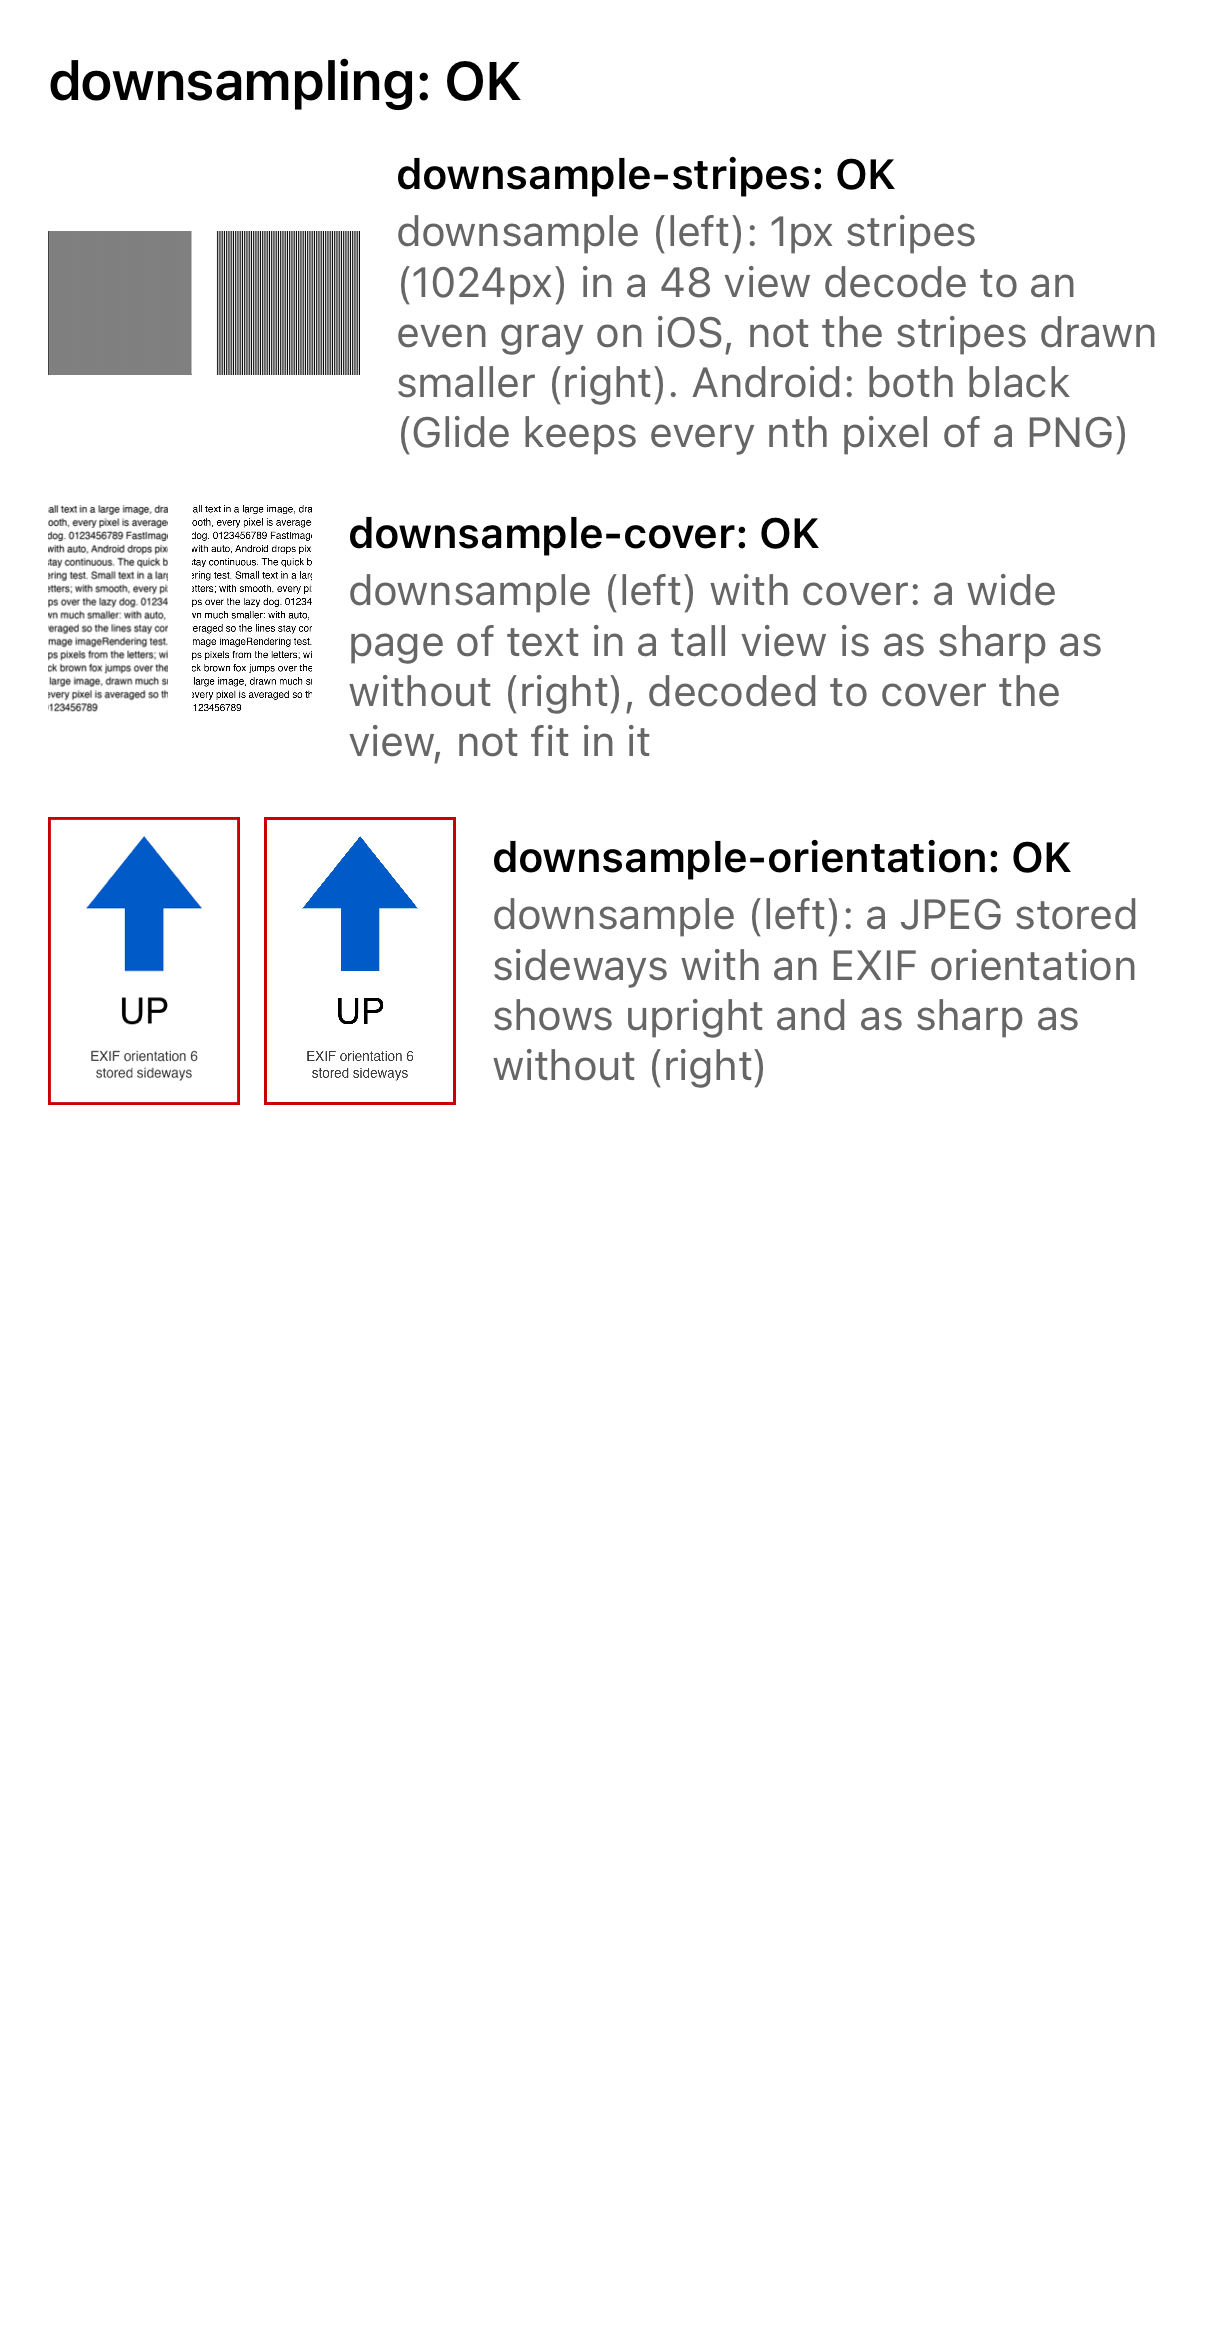
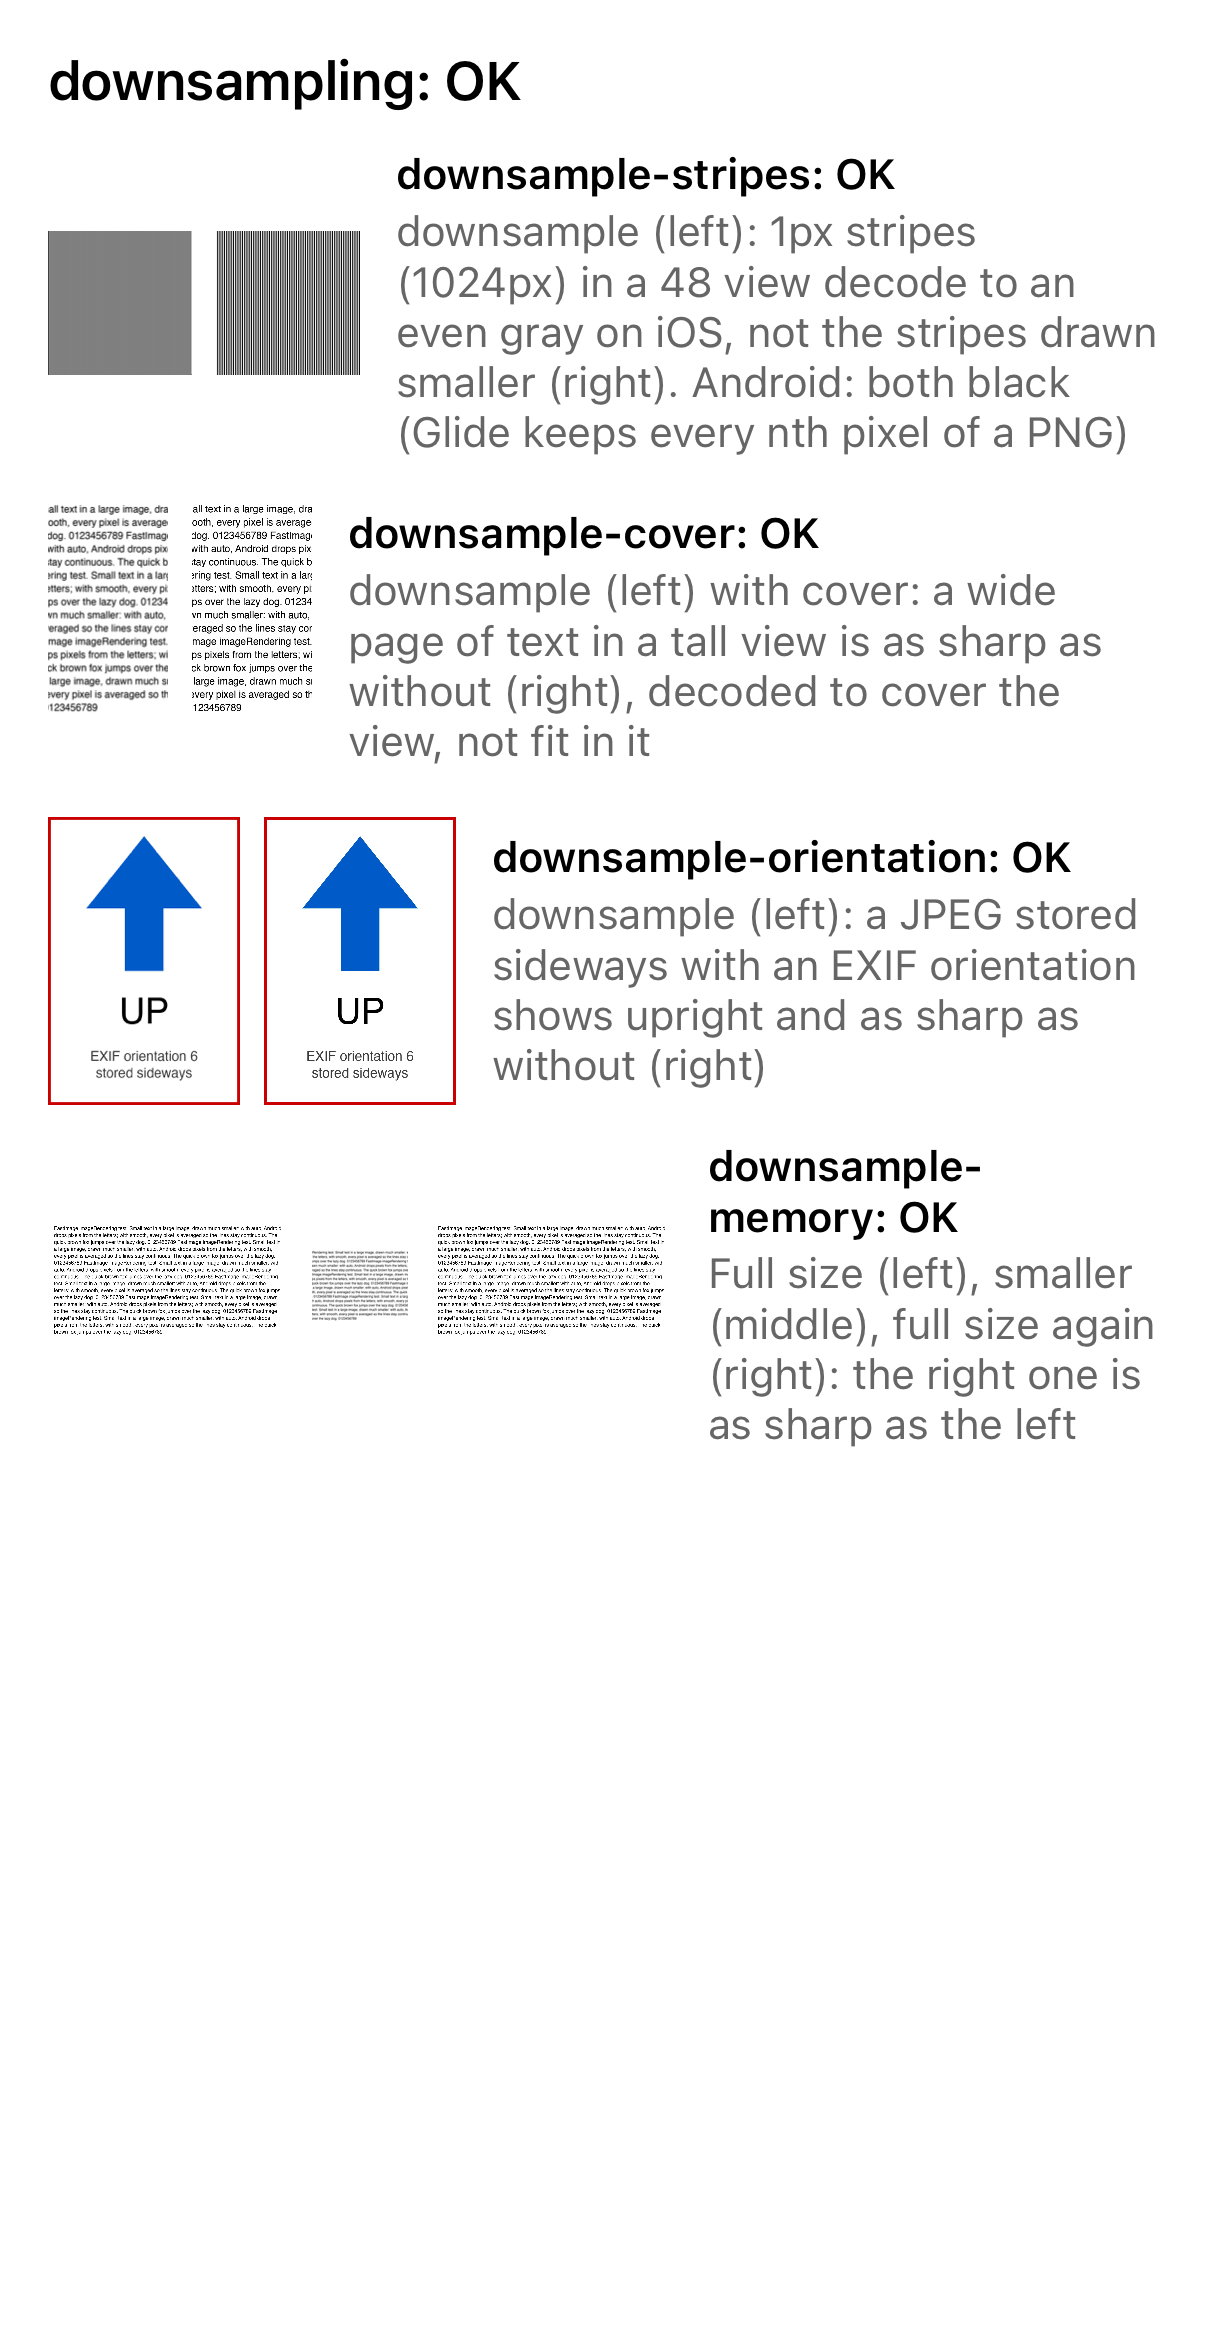
fix(ios): a full-size image isn't blurry after a smaller one of the same url
SDWebImage keeps an image it decodes smaller from the disk cache, for a
view that downsamples, in the memory cache under the full-size image's key
too. A view that then showed the same url at full size (downsample={false},
resizeMode="repeat", or a view without a size) found it there, and showed
it blurry. A full-size load now drops a smaller image from that key first,
so it decodes the file from the disk cache.

Changed region(s): [[0.5829, 0.4936, 0.9511, 0.617], [0.0307, 0.5244, 0.3375, 0.5861], [0.3682, 0.5244, 0.5522, 0.5861]]

diff --git a/ReactNativeFastImageExample/src/RegressionExample.tsx b/ReactNativeFastImageExample/src/RegressionExample.tsx
@@ -5242,7 +5242,53 @@ function DownsampleOrderCase() {
     )
 }
 
+// A view that downsamples an image from the disk cache, after a view showed
+// it at full size, doesn't leave its smaller copy where full-size views look
+// (iOS: it was in the memory cache under the full-size image's key). A page of
+// text at full size (left), the same smaller (middle), then at full size
+// again (right), which should be as sharp as the left one.
+function DownsampleMemoryCase() {
+    // Not shared with other cases, so this case decides what's cached.
+    const uri = imageUrl('text-page.png?case=downsample-memory')
+    const [step, setStep] = useState(0)
+    const next = (to: number) => () => {
+        // After the full-size image has been written to the disk cache.
+        setTimeout(() => setStep((s) => Math.max(s, to)), 300)
+    }
+    return (
+        <View style={styles.row}>
+            <FastImage
+                style={downsampleStyles.page}
+                source={{ uri }}
+                downsample={false}
+                onLoad={next(1)}
+            />
+            {step >= 1 && (
+                <FastImage
+                    style={[downsampleStyles.small, styles.gap]}
+                    source={{ uri }}
+                    onLoad={next(2)}
+                />
+            )}
+            {step >= 2 && (
+                <FastImage
+                    style={[downsampleStyles.page, styles.gap]}
+                    source={{ uri }}
+                    downsample={false}
+                    onLoad={next(3)}
+                />
+            )}
+            <CaseStatus
+                id="downsample-memory"
+                status={step >= 3 ? 'OK' : `step ${step}`}
+                description="Full size (left), smaller (middle), full size again (right): the right one is as sharp as the left"
+            />
+        </View>
+    )
+}
+
 const downsampleStyles = StyleSheet.create({
+    page: { width: 80, height: 50 },
     large: { width: 96, height: 96, backgroundColor: '#eee' },
     stripes: { width: 48, height: 48 },
     small: { width: 32, height: 32, backgroundColor: '#eee' },
@@ -6320,6 +6366,7 @@ export const REGRESSION_GROUPS: RegressionGroup[] = [
                 style={downsampleStyles.rotated}
                 resizeMode="contain"
             />,
+            <DownsampleMemoryCase key="downsample-memory" />,
         ],
     },
     {

diff --git a/ios/FastImage/FFFastImageView.m b/ios/FastImage/FFFastImageView.m
@@ -66,6 +66,26 @@ static CFTimeInterval FFFEnteredBackgroundAt = 0;
 
 static UIImage* FFFBlurredImage(UIImage* image, CGFloat scale, CGFloat radius, BOOL downscale);
 
+// SDWebImage puts an image it decoded smaller from the disk cache, for a view
+// that downsamples, into the memory cache under the full-size image's key too
+// (SDWebImageManager writes what its original cache query finds back there),
+// where a full-size load (no downsample, repeat, a view without a size) would
+// find it and show it blurry. Drops it there, so that load decodes the file
+// from the disk cache.
+static void FFFForgetSmallerFullSizeImage(NSURL* url, SDWebImageContext* context) {
+    SDWebImageManager* manager = [SDWebImageManager sharedManager];
+    if (!url || ![manager.imageCache isKindOfClass: [SDImageCache class]] || ![manager respondsToSelector: @selector(cacheKeyForURL:context:)]) {
+        return;
+    }
+    SDImageCache* cache = (SDImageCache*) manager.imageCache;
+    NSString* key = [manager cacheKeyForURL: url context: context];
+    UIImage* image = [cache imageFromMemoryCacheForKey: key];
+    CGSize fullSize = [FFFDownsampledImage sourceSizeOfImage: image];
+    if (image && fullSize.width > 0 && fullSize.height > 0 && !CGSizeEqualToSize(image.size, fullSize)) {
+        [cache removeImageFromMemoryForKey: key];
+    }
+}
+
 @implementation FFFastImageView
 
 + (void) initialize {
@@ -1009,6 +1029,7 @@ NSString *FFFErrorMessage(NSError *error)
             // Only on disk, also when it comes from there.
             context[SDWebImageContextStoreCacheType] = @(SDImageCacheTypeDisk);
         }
+        FFFForgetSmallerFullSizeImage(source.url, context);
         return context;
     }
     [FFFDownsampledImage addToContext: context box: box cover: cover];
